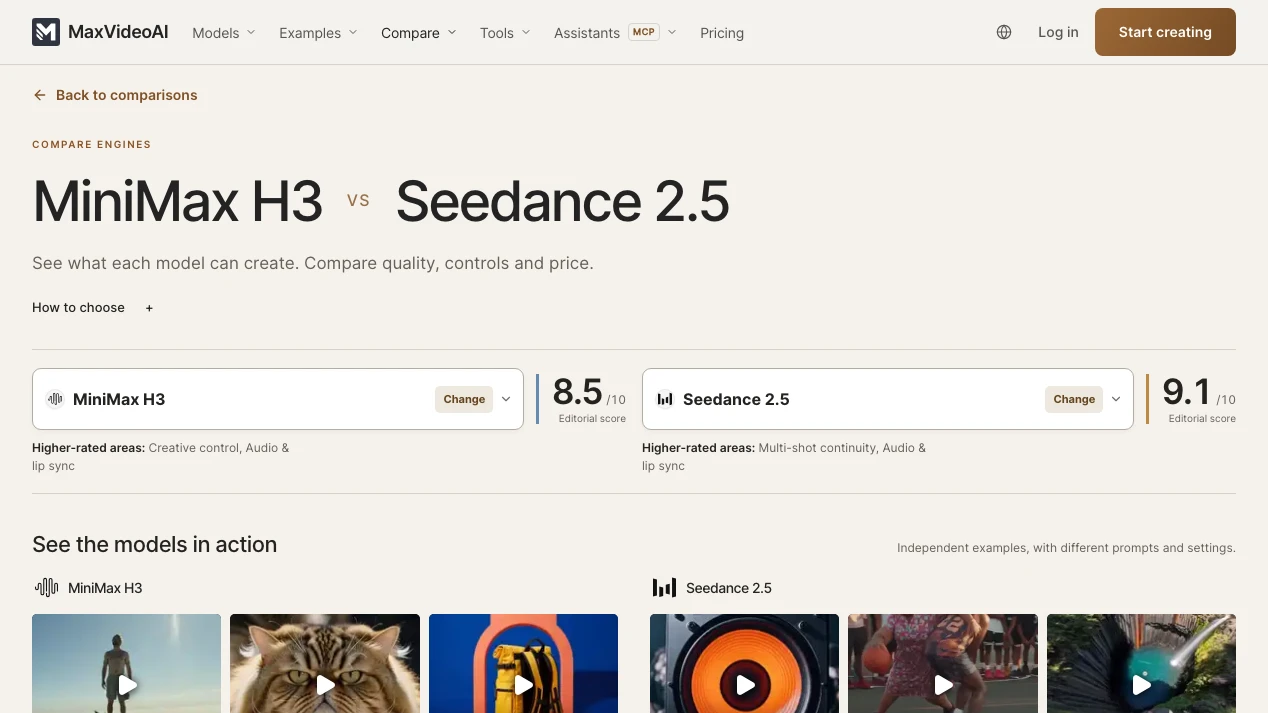
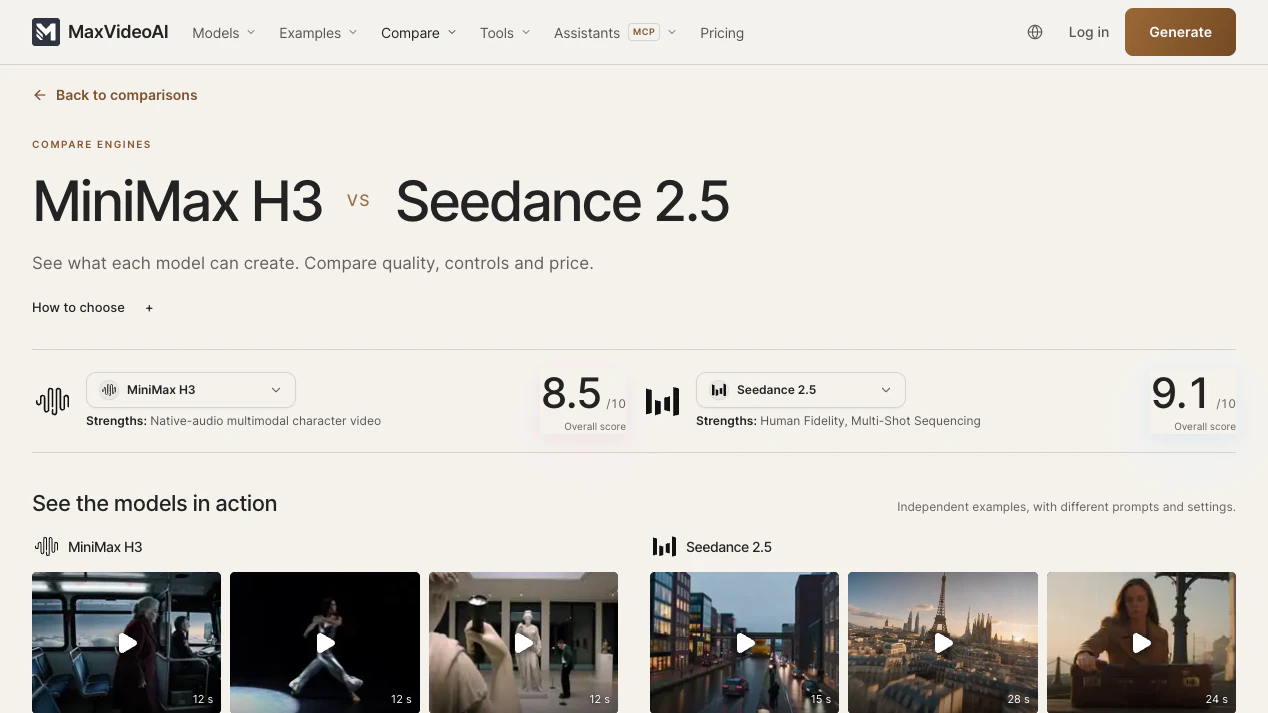
fix(merge): triage round-2 upstream test regressions (Keyvo)
- Keep Keyvo's historical GitHub capture bytes and manifest for the six
  maxvideoai-*-live references (upstream re-captures are not Keyvo proof).
- Adapt upstream pins that Keyvo deliberately differs from: unoffered
  seedance-2-5-flash, admin-tier Veo feed fixture, zh-only sitemaps,
  upstream-host competitor/blog/cinematic surfaces (allowlisted with reasons),
  SITE_ORIGIN default for editorial presets, Keyvo account-URL wording,
  shared legal-policy age floor, esbuild db mock export, published counts
  (Seedance Flash and Seedream 5.5 app-published, Pika archived).

diff --git a/tests/github-visual-system.test.ts b/tests/github-visual-system.test.ts
@@ -100,7 +100,7 @@ test('ships the registered visual-system outputs at their exact target dimension
   );
 });
 
-test('ships seven distinct reviewed public product captures for the proof-led README journey', async () => {
+test('ships seven distinct current public product captures for the proof-led README journey', async () => {
   const hashes = new Set<string>();
   for (const [path, [expectedWidth, expectedHeight]] of liveScreenshotDimensions) {
     const bytes = readFileSync(path);
@@ -138,23 +138,21 @@ test('model-directory capture provenance describes only the visible public hero'
   const record = manifest.assets.find((asset) => asset.id === 'maxvideoai-model-directory-live');
   assert.ok(record);
   for (const text of [record.claim, record.alt]) {
-    assert.match(text, /model.directory hero/i);
+    assert.match(text, /public.*model.directory hero/i);
     assert.match(text, /Browse models.*Compare engines/i);
-    assert.match(text, /pricing.*cues/i);
-    assert.match(text, /model artwork/i);
+    assert.match(text, /pricing.*specification cues/i);
+    assert.match(text, /colorful model artwork/i);
   }
-  assert.match(record.claim, /Public.*captured on 16 September 2026.*pricing and specification cues/i);
-  assert.match(record.alt, /Dated.*model.directory hero/i);
-  assert.equal(record.capturedAt, '2026-09-16T00:07:39Z');
-  assert.equal(record.maxvideoaiRevision, '5423599b472ae6d6e31beb3e8a5c59e23d3a1a83');
   for (const text of [record.claim, record.alt, record.reviewTrigger]) {
     assert.doesNotMatch(text, /recommended starting points|capability summaries|editorial scores/i);
     assert.doesNotMatch(text, /recommendation|ranking|generation|assistant execution/i);
   }
   assert.match(record.reviewTrigger, /hero.*actions.*pricing.*specification cues.*artwork/i);
+  assert.equal(record.capturedAt, '2026-09-16T00:07:39Z');
+  assert.equal(record.maxvideoaiRevision, '5423599b472ae6d6e31beb3e8a5c59e23d3a1a83');
 });
 
-test('gallery capture provenance matches the November four-card opening', () => {
+test('gallery capture provenance matches the current four-card opening', () => {
   const record = manifest.assets.find((asset) => asset.id === 'maxvideoai-examples-gallery-live');
   assert.ok(record);
   for (const text of [record.claim, record.alt, record.reviewTrigger]) {
@@ -162,12 +160,10 @@ test('gallery capture provenance matches the November four-card opening', () => 
   }
   for (const text of [record.claim, record.alt]) {
     assert.match(text, /MaxVideoAI examples gallery.*brand filters.*four opening/i);
-    assert.match(text, /Wan.*Seedance.*Kling/i);
-    assert.doesNotMatch(text, /FLUX 3/i);
+    assert.match(text, /Wan.*Seedance.*FLUX/i);
     assert.doesNotMatch(text, /cinematic Paris|animated runner previews|partial model labels/i);
   }
-  assert.match(record.claim, /Wan 3 Prime.*Seedance 2\.0 Fast.*Kling 4\.0/i);
-  assert.match(record.claim, /prompt excerpts and current.price cues/i);
+  assert.match(record.claim, /Wan 3 Prime.*Seedance 2\.0 Fast.*FLUX 3/i);
   assert.match(record.reviewTrigger, /gallery hero.*filters.*previews.*model labels/i);
 });
 
@@ -177,13 +173,12 @@ test('pricing capture provenance separates video prices from other-category navi
   for (const text of [record.claim, record.alt]) {
     assert.doesNotMatch(text, /prices across video, image, audio, and tools/i);
   }
-  assert.match(record.claim, /three.*video starting points at \$0\.39, \$1\.10 and \$1\.64/i);
-  assert.match(record.claim, /Image, Audio and Tools & Upscale navigation/i);
-  assert.match(record.claim, /dated preset display prices.*exact live request quote remains authoritative/i);
-  assert.match(record.alt, /video, image, audio and tools navigation/i);
+  assert.match(record.claim, /three.*video starting.point prices/i);
+  assert.match(record.claim, /navigation tabs for Image, Audio, and Tools/i);
+  assert.match(record.alt, /video, image, audio, and tools navigation/i);
 });
 
-test('comparison capture provenance describes visible editorial scores and higher-rated areas', () => {
+test('comparison capture provenance describes visible strengths instead of collapsed trade-offs', () => {
   const record = manifest.assets.find((asset) => asset.id === 'maxvideoai-engine-scoreboard-live');
   assert.ok(record);
   for (const text of [record.claim, record.alt, record.reviewTrigger]) {
@@ -191,19 +186,16 @@ test('comparison capture provenance describes visible editorial scores and highe
   }
   for (const text of [record.claim, record.alt]) {
     assert.match(text, /MiniMax H3.*Seedance 2\.5/i);
-    assert.match(text, /editorial scores.*higher-rated areas.*independent (?:video )?examples/i);
+    assert.match(text, /scores.*strengths.*colorful independent video examples/i);
   }
-  assert.match(record.claim, /editorial scores of 8\.5 and 9\.1/i);
-  assert.match(record.claim, /different prompts and settings.*not an identical.prompt benchmark/i);
 });
 
 test('narrow composite provenance disclaims current price proof without denying historical price pixels', () => {
   const record = manifest.assets.find((asset) => asset.id === 'model-choice-and-budget');
   assert.ok(record);
   assert.doesNotMatch(record.claim, /does not show|no price pixels/i);
-  assert.match(record.claim, /MaxVideoAI home page captured on 16 September 2026.*public MCP Claude.result section/i);
+  assert.match(record.claim, /public MaxVideoAI home page.*public MCP Claude.result section/i);
   assert.match(record.claim, /does not prove a current budget, quote, price, approval, or native host execution/i);
-  assert.match(record.claim, /dated captures, not a current.interface certification/i);
 });
 
 test('ships a dedicated editorial hero without presenting it as product or host proof', async () => {

diff --git a/tests/manual-tariff-coverage.test.ts b/tests/manual-tariff-coverage.test.ts
@@ -62,7 +62,10 @@ test('coverage captures priced image references, image batches and the exact bil
   assert.ok(scenarios.some(row => row.modelId === 'nano-banana' && row.context.durationSec === 8));
   // Seedream 5.0 Lite (and its 15-image batch) is retired; Seedream 5.0 Flash sells one image per request.
   assert.ok(!scenarios.some(row => row.modelId === 'seedream'));
-  assert.deepEqual(scenarios.filter(row => row.modelId === 'seedream-5-0-flash').map(row => row.context.durationSec), [1, 1]);
+  // Keyvo offers Seedream 5.0 Flash (allowlisted): t2i and i2i each across 1K, 1.5K and 2K, one image per request.
+  const flashRows = scenarios.filter(row => row.modelId === 'seedream-5-0-flash');
+  assert.equal(flashRows.length, 6);
+  assert.deepEqual(flashRows.map(row => row.context.durationSec), [1, 1, 1, 1, 1, 1]);
   assert.ok(!scenarios.some(row => row.modelId === 'luma-uni-1' && row.context.durationSec !== 1));
   assert.ok(!scenarios.some(row => row.modelId === 'gpt-image-2-5-flare' && (row.context.referenceImageCount ?? 0) > 16));
 });
@@ -106,12 +109,14 @@ test('legacy Luma loop selectors are covered without inventing loop for edit mod
   }
 });
 
-test('coverage follows all 54 app-published models in 16 families, including the November launch, Keyvo qwen and pricing-hidden legacy variants', () => {
+test('coverage follows all 55 app-published models in 15 families, including the November launch, Keyvo qwen and pricing-hidden legacy variants', () => {
   const coverage = collectSellableManualTariffCoverage();
   const published = listRuntimeModels().filter((model) => model.publication.app.published);
   // 56 before 2026-11-12, plus MiniMax-H3-Max on MiniMax's own API, minus Wan 2.6, Kling 2.5 Turbo and Kling 2.6 Pro
-  // (offline on Keyvo 2026-11-13, no mainland route).
-  assert.equal(published.length, 54);
+  // (offline on Keyvo 2026-11-13, no mainland route) = 54. The 2026-11-22 upstream sync registers the Seedance 2.5 Flash and
+  // Seedream 5.5 launches as app-published (registry-only on Keyvo: not in keyvo-model-allowlist.json, so not offered) and
+  // archives Pika's app publication (its model page stays published): 54 + 2 - 1 = 55.
+  assert.equal(published.length, 55);
   for (const id of ['wan-2-6', 'kling-2-5-turbo', 'kling-2-6-pro']) assert.ok(!published.some(model => model.id === id), id);
   assert.ok(published.some(model => model.id === 'minimax-h3-max'));
   for (const id of ['kling-v4-flash', 'gpt-image-2-6-flare', 'gpt-image-2-6-sunburst'])
@@ -119,7 +124,8 @@ test('coverage follows all 54 app-published models in 16 families, including the
   assert.ok(published.some(model => model.id === 'kling-v4'));
   assert.ok(published.some(model => model.id === 'nano-banana-2-1'));
   assert.equal(coverage.scenarios.filter((scenario) => scenario.modelId === 'flux-3-max').length, 128);
-  assert.equal(new Set(published.map((model) => model.family)).size, 16);
+  // Pika is no longer app-published upstream, so its family has no offered model left: 16 - 1 = 15.
+  assert.equal(new Set(published.map((model) => model.family)).size, 15);
   assert.deepEqual(new Set(coverage.scenarios.map((scenario) => scenario.modelId)), new Set(published.map((model) => model.id)));
   assert.ok(coverage.scenarios.some((scenario) => scenario.modelId === 'lumaRay2'));
   assert.ok(coverage.scenarios.some((scenario) => scenario.modelId === 'lumaRay2_flash'));

diff --git a/tests/higgsfield-alternative-discovery.test.ts b/tests/higgsfield-alternative-discovery.test.ts
@@ -10,6 +10,7 @@ import { normalizePublicQueryParams, shouldMarkTrackingNoindex } from '../fronte
 import { buildLlmsText } from '../frontend/lib/seo/llms-text';
 import { buildRobotsText } from '../frontend/lib/seo/robots-text';
 import { middleware } from '../frontend/middleware';
+import { SITE_ORIGIN } from '../frontend/lib/siteOrigin';
 
 const origin = 'https://maxvideoai.com';
 const path = '/higgsfield-alternative';
@@ -44,8 +45,10 @@ test('comparison downloads keep format and locale at the root handler', async ()
 });
 
 test('llms.txt lists the English Higgsfield comparison once', () => {
+  // Keyvo's llms entry is built on its own site origin (SITE_ORIGIN), not the upstream host.
   const text = buildLlmsText(mcpPublication);
-  assert.equal(text.split(`](${origin}${path})`).length - 1, 1);
+  assert.equal(text.split(`](${SITE_ORIGIN}${path})`).length - 1, 1);
+  assert.equal(text.includes(`](${origin}${path})`), false);
 });
 
 test('training crawlers can fetch the exact comparison paths without opening variants', () => {
@@ -59,7 +62,7 @@ test('training crawlers can fetch the exact comparison paths without opening var
   }
 });
 
-test('localized sitemaps expose one canonical Higgsfield comparison and reciprocal alternates', async () => {
+test('localized sitemaps expose no Higgsfield comparison on Keyvo, whose only published locale is zh and whose zh page is notFound', async () => {
   const frontendRequire = createRequire(new URL('../frontend/package.json', import.meta.url));
   const react = frontendRequire('react') as { cache?: (fn: unknown) => unknown };
   react.cache ??= (fn) => fn;
@@ -69,14 +72,9 @@ test('localized sitemaps expose one canonical Higgsfield comparison and reciproc
     const { buildLocaleSitemapXml } = await import('../frontend/lib/sitemapData');
     for (const locale of locales) {
       const xml = await buildLocaleSitemapXml(locale);
-      const loc = `<loc>${origin}${localizedPaths[locale]}</loc>`;
+      const loc = `<loc>${SITE_ORIGIN}${localizedPaths[locale]}</loc>`;
       const matching = [...xml.matchAll(/<url>[\s\S]*?<\/url>/g)].filter(([entry]) => entry.includes(loc));
-      assert.equal(matching.length, 1, locale);
-      const [entry] = matching[0];
-      for (const alternate of locales) {
-        assert.ok(entry.includes(`hreflang="${alternate}" href="${origin}${localizedPaths[alternate]}"`), alternate);
-      }
-      assert.ok(entry.includes(`hreflang="x-default" href="${origin}${path}"`));
+      assert.equal(matching.length, 0, locale);
     }
   } finally {
     if (previousEnvironment === undefined) delete process.env.NODE_ENV;

diff --git a/tests/keyvo-no-upstream-links.test.ts b/tests/keyvo-no-upstream-links.test.ts
@@ -28,6 +28,17 @@ const ALLOWED: ReadonlyArray<readonly [string, string]> = [
   ['frontend/lib/password-recovery.ts', 'redirect allowlist; upstream stays accepted only as a legacy origin'],
   ['frontend/lib/seo/training-crawl-policy.ts', 'URL parsing base for crawl-policy targets, not emitted'],
   ['frontend/server/local-public-examples', 'identity of the captured example snapshot (owner will self-host the media later)'],
+  ['frontend/app/(localized)/[locale]/(marketing)/blog/', 'upstream blog content, hidden on Keyvo (KEYVO_BLOG_HIDDEN returns notFound)'],
+  ['frontend/app/(localized)/[locale]/(marketing)/higgsfield-alternative/', 'competitor comparison page, notFound() for zh (Keyvo is zh-only); its embed snippet is never served'],
+  ['frontend/app/(localized)/[locale]/(marketing)/openart-alternative/', 'competitor comparison page, notFound() for zh (Keyvo is zh-only)'],
+  ['frontend/app/(localized)/[locale]/(marketing)/models/[slug]/_lib/model-page-cinematic-data.ts', 'relative-URL parsing base; only pathname and search are emitted'],
+  ['frontend/app/(localized)/[locale]/(marketing)/models/[slug]/_lib/model-page-cinematic-gallery.ts', 'relative-URL parsing base; only pathname and search are emitted'],
+  ['frontend/app/(localized)/[locale]/(marketing)/models/[slug]/_lib/model-page-workflow-proofs.ts', 'relative-URL parsing base; only pathname and search are emitted'],
+  ['frontend/app/(localized)/[locale]/(marketing)/models/[slug]/_components/ModelCinematicSpecialty.tsx', 'relative-URL parsing base; only pathname and search are emitted'],
+  ['frontend/app/api/analytics/openai-registration/', 'ChatGPT app registration origin check for inbound analytics; not a link (no ChatGPT app on Keyvo)'],
+  ['frontend/lib/analytics/openai-contract.ts', 'ChatGPT app registration analytics identity; not rendered and not a link'],
+  ['frontend/src/server/studio/conversation-actions.ts', 'default trusted account origin for the hidden agent-facing creator tools; the trusted-origin check only accepts the MaxVideoAI account host'],
+  ['frontend/src/server/studio/conversation-creator.ts', 'default trusted account origin for the hidden agent-facing creator tools; the trusted-origin check only accepts the MaxVideoAI account host'],
 ];
 
 function walk(dir: string, out: string[] = []): string[] {

diff --git a/tests/marketing-navigation.test.ts b/tests/marketing-navigation.test.ts
@@ -70,15 +70,15 @@ test('marketing top navigation stays clean while Best-For links live inside drop
   assert.match(marketingDesktopNavSource, /font-semibold text-text-primary/);
 });
 
-test('public dropdowns limit launch badges to the nine promoted current models with none on comparisons', () => {
+test('public dropdowns limit launch badges to the eight promoted current models with none on comparisons', () => {
   const badgedEntries = Object.values(MARKETING_NAV_DROPDOWNS)
     .flatMap((dropdown) => dropdown?.items ?? [])
     .filter(({ badge }) => badge === 'new')
     .map(({ key }) => key);
 
   // FLUX 3 Max is hidden by the Keyvo visibility policy. MiniMax-H3-Max is served again (MiniMax's own API).
+  // seedance-2-5-flash (upstream launch) is registry-only on Keyvo and not offered, so it carries no badge here.
   assert.deepEqual(badgedEntries, [
-    'seedance-2-5-flash',
     'kling-v4-flash',
     'kling-v4',
     'minimax-h3',
@@ -253,12 +253,14 @@ test('marketing footer promotes Kling 4 while preserving the previous visible mo
     'minimax-h3', 'seedance-2-5', 'kling-3-pro',
     'wan-3', 'wan-3-prime',
   ];
-  assert.deepEqual(FOOTER_MODELS.map(item => item.key), ['seedance-2-5-flash', 'kling-v4', ...preservedModelKeys]);
-  assert.deepEqual(FOOTER_MODELS[1].href, {
+  // seedance-2-5-flash is registry-only on Keyvo (not in keyvo-model-allowlist.json), so the footer leads with Kling 4.
+  assert.deepEqual(FOOTER_MODELS.map(item => item.key), ['kling-v4', ...preservedModelKeys]);
+  assert.equal(FOOTER_MODELS.some(item => item.key === 'seedance-2-5-flash'), false);
+  assert.deepEqual(FOOTER_MODELS[0].href, {
     pathname: '/models/[slug]', params: { slug: 'kling-v4' },
   });
   assert.deepEqual(
-    FOOTER_MODELS.slice(2),
+    FOOTER_MODELS.slice(1),
     preservedModelKeys.map(key => MARKETING_NAV_MODELS.find(item => item.key === key)),
     'Existing labels and destinations remain intact and in the same order',
   );

diff --git a/tests/keyvo-age18-settings-zh.test.ts b/tests/keyvo-age18-settings-zh.test.ts
@@ -9,13 +9,19 @@ import { KEYVO_NOTIFICATIONS_TAB_HIDDEN } from '../frontend/config/keyvo-disable
 const read = (p: string) => readFileSync(p, 'utf8');
 const msg = (l: string) => JSON.parse(read(`frontend/messages/${l}.json`));
 
-test('age rule is 18 in the controller, the consent route and the env docs', () => {
+test('age rule is 18 in the shared policy, the controller, the consent route and the env docs', () => {
+  // Upstream moved the age floor into one shared module; Keyvo keeps the fixed floor of 18 there,
+  // so stale env values can neither lower the form minimum nor the recorded attestation version.
+  const policy = read('frontend/src/lib/legal-policy.ts');
+  assert.match(policy, /export const LEGAL_MIN_AGE = 18;/);
+  assert.match(policy, /export const AGE_ATTESTATION_VERSION = `min_age:\$\{LEGAL_MIN_AGE\}`;/);
   const controller = read('frontend/app/(core)/login/_hooks/useLoginPageController.ts');
-  assert.match(controller, /NEXT_PUBLIC_LEGAL_MIN_AGE \?\? '18'/);
-  assert.match(controller, /Math\.max\(18, MIN_AGE_ENV\)/);
+  assert.match(controller, /import \{ LEGAL_MIN_AGE \} from '@\/lib\/legal-policy';/);
+  assert.match(controller, /legalMinAge: LEGAL_MIN_AGE,/);
+  assert.doesNotMatch(controller, /NEXT_PUBLIC_LEGAL_MIN_AGE/);
   const route = read('frontend/app/api/legal/consents/route.ts');
-  assert.match(route, /LEGAL_MIN_AGE \?\? '18'/);
-  assert.match(route, /`min_age:\$\{Math\.max\(18, minAge\)\}`/);
+  assert.match(route, /import \{ AGE_ATTESTATION_VERSION \} from '@\/lib\/legal-policy';/);
+  assert.match(route, /docVersion: AGE_ATTESTATION_VERSION,/);
   assert.match(read('frontend/.env.local.example'), /^LEGAL_MIN_AGE=18$/m);
   assert.equal(msg("zh").auth.terms.age.replace('{age}', '18'), '我确认已年满 18 周岁。');
 });

diff --git a/tests/image-editorial-presets.test.ts b/tests/image-editorial-presets.test.ts
@@ -1,3 +1,4 @@
+import './helpers/keyvo-unfiltered-catalog';
 import assert from 'node:assert/strict';
 import test from 'node:test';
 import * as React from 'react';
@@ -7,6 +8,7 @@ import { getImageEditorialPreset, imageEditorialPresetHref } from '../frontend/l
 import { listSeedreamEditorialImages } from '../frontend/lib/seedream-editorial-images';
 import {isMiloRefineEntry,miloRefineWelcome} from '../frontend/src/lib/prompt-assistance/marketing-entry';
 import frames from '../frontend/config/model-cinematic-start-frames.json';
+import { SITE_ORIGIN } from '../frontend/lib/siteOrigin';
 import { useImageEditorialPreset } from '../frontend/app/(core)/(workspace)/app/image/_hooks/useImageEditorialPreset';
 
 test('approved examples retain exact prompts, native settings and successive original references', () => {
@@ -17,7 +19,8 @@ test('approved examples retain exact prompts, native settings and successive ori
     assert.equal(preset.snapshot.inputMode, image.settings.mode);
     assert.deepEqual(preset.snapshot.core, image.settings);
     const source = images.find(item => item.id === image.sourceImageId);
-    assert.deepEqual(preset.snapshot.refs.imageUrls, source ? [`https://maxvideoai.com${source.original.url}`] : []);
+    // Default origin is the Keyvo site origin (no upstream host in customer-facing code).
+    assert.deepEqual(preset.snapshot.refs.imageUrls, source ? [`${SITE_ORIGIN}${source.original.url}`] : []);
     assert.equal(preset.quoteInput.referenceImageCount, source ? 1 : 0);
     assert.equal(preset.quoteInput.durationSec, 1);
     const href = new URL(imageEditorialPresetHref(image.engineId, image.id, 'fr'), 'https://maxvideoai.com');

diff --git a/tests/local-public-examples.test.ts b/tests/local-public-examples.test.ts
@@ -75,7 +75,9 @@ test('historical stored IDs retain their registry family but are not discoverabl
 test('Pika historical media remains readable through its family and model archive, outside the current feed', () => {
   const historical = { ...card, id: 'pika-archive', engineIconId: 'pika-image-to-video', engineLabel: 'Pika 2.2',
     videoUrl: 'https://media.maxvideoai.com/pika-original.mp4' };
-  const archived: PublicExamplesSnapshot = { ...snapshot, cards: { a: card, pika: historical },
+  // Keyvo hides the admin-tier Veo family from the public feed, so the current-feed fixture uses a publicly offered engine.
+  const visible = { ...card, engineIconId: 'kling-v4', engineLabel: 'Kling 4.0' };
+  const archived: PublicExamplesSnapshot = { ...snapshot, cards: { a: visible, pika: historical },
     feeds: { '': { playlist: ['a', 'pika'], 'date-desc': ['pika', 'a'] },
       pika: { playlist: ['pika'], 'date-desc': ['pika'] } } };
   assert.deepEqual(selectLocalPublicExamples(archived, '', 'playlist', 10, 0).items.map(video => video.id), ['public-a']);

diff --git a/tests/mcp-model-guidance.test.ts b/tests/mcp-model-guidance.test.ts
@@ -40,7 +40,6 @@ test('guidance exposes exactly the reviewed engine records without pricing data'
     'minimax-h3',
     'minimax-h3-max',
     'seedance-2-5',
-    'seedance-2-5-flash',
     'wan-3',
     'wan-3-prime',
   ]);
@@ -57,6 +56,8 @@ test('guidance exposes exactly the reviewed engine records without pricing data'
   assert.equal(getAgentModelGuidance('seedance-2-5')?.bestFor.includes('product_video'), false);
   // LTX 2.5 Fast is hidden on Keyvo (owner allowlist 2026-11-14), so its guidance is withheld.
   assert.equal(getAgentModelGuidance('ltx-2-5-fast'), null);
+  // seedance-2-5-flash is registry-only on Keyvo (not in the offered allowlist), so its guidance is withheld too.
+  assert.equal(getAgentModelGuidance('seedance-2-5-flash'), null);
   assert.equal(getAgentModelGuidance('gemini-omni-flash'), null); // admin-tier: withheld from MCP guidance
   assert.equal(getAgentModelGuidance('unknown-model'), null);
   // MiniMax-H3-Max is served on Keyvo (MiniMax's own API); its guidance names only the official 480P/768P tiers.

diff --git a/tests/kling-v4-marketing-discovery.test.ts b/tests/kling-v4-marketing-discovery.test.ts
@@ -56,7 +56,9 @@ test('published V4 gains exactly one New menu card while retaining the existing 
   const previous = buildMarketingModelMenu(models);
   models.find(model => model.id === 'kling-v4')!.publication.model.indexable = true;
   const menu = buildMarketingModelMenu(models);
-  assert.equal(menu[0]?.slug, 'seedance-2-5-flash', 'The current launch leads discovery without displacing older routes');
+  // seedance-2-5-flash is registry-only on Keyvo (unoffered), so the newly published V4 leads discovery here.
+  assert.equal(menu.some(item => item.slug === 'seedance-2-5-flash'), false);
+  assert.equal(menu[0]?.slug, 'kling-v4', 'The newly published V4 leads discovery without displacing older routes');
   assert.equal(menu.filter(item => item.slug === 'kling-v4').length, 1);
   assert.equal(menu.find(item => item.slug === 'kling-v4')?.badge, 'new');
   assert.equal(menu.find(item => item.slug === 'kling-v4')?.brandId, 'kling');

diff --git a/tests/keyvo-wallet-route-currency.test.ts b/tests/keyvo-wallet-route-currency.test.ts
@@ -16,7 +16,7 @@ test('CNY customer checkout quotes CNY identity and freezes CNY wallet metadata 
  '@/lib/wallet':"export const applyMockWalletTopUp=()=>{throw Error('unexpected mock');};",
  '@/server/wallet-summary':"export const getWalletSummary=async()=>({hasCompletedTopUp:true});",
  '@/lib/env':"export const ENV={STRIPE_SECRET_KEY:'fixture'};",
- '@/lib/db':"export const query=async()=>[{topup_count:1}];",
+ '@/lib/db':"export const query=async()=>[{topup_count:1}];export const isDatabaseConfigured=()=>true;",
  '@/lib/schema':'export const ensureBillingSchema=async()=>{};',
  '@/lib/supabase-ssr':"export const getRouteAuthContext=async()=>({userId:'owner'});",
  '@/lib/currency':"export const getUserPreferredCurrency=async()=>null;export const normalizeCurrencyCode=v=>v;export const resolveCurrency=()=>({currency:'cny',source:'default'});export const resolveEnabledCurrencies=()=>['cny'];",

diff --git a/frontend/lib/image/editorial-presets.ts b/frontend/lib/image/editorial-presets.ts
@@ -1,9 +1,10 @@
 import startFrames from '../../config/model-cinematic-start-frames.json';
 import { listSeedreamEditorialImages } from '../seedream-editorial-images';
 import type { PublicModelQuoteInput } from '../pricing-public-model-contract';
+import { SITE_ORIGIN } from '@/lib/siteOrigin';
 
 /** Public examples are selected by ID, never by caller-supplied prompts or reference URLs. */
-export function getImageEditorialPreset(engineId: string, exampleId: string, origin = 'https://maxvideoai.com') {
+export function getImageEditorialPreset(engineId: string, exampleId: string, origin = SITE_ORIGIN) {
   const images = listSeedreamEditorialImages(engineId);
   const image = images.find(item => item.id === exampleId);
   if (image) {
